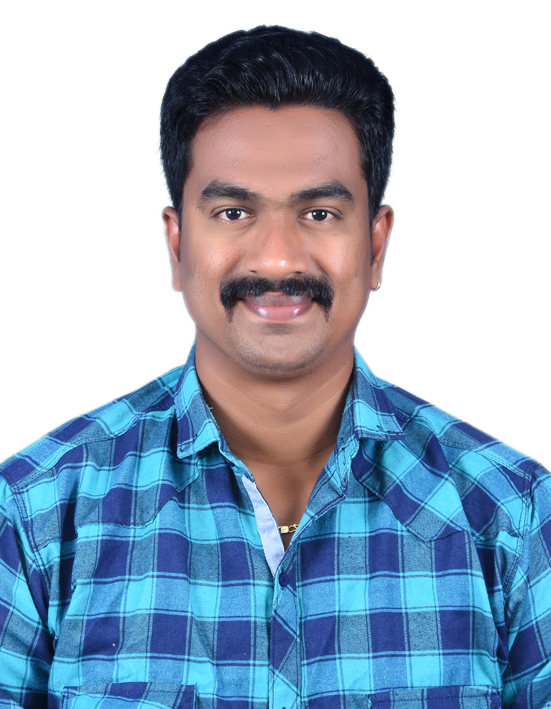
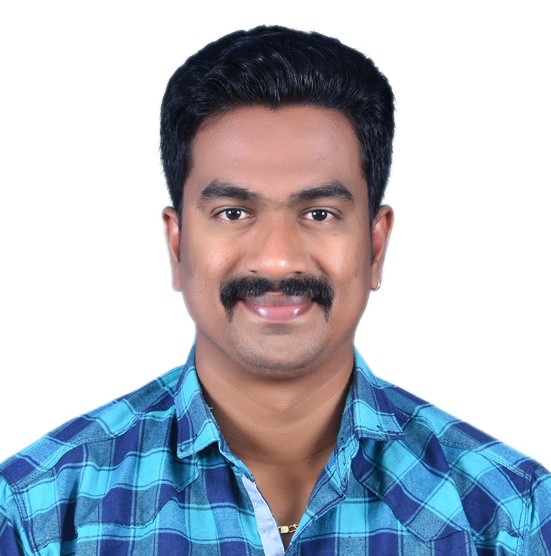
members added

diff --git a/client/src/pages/About.tsx b/client/src/pages/About.tsx
@@ -7,14 +7,6 @@ import {
   Target, Eye, Users, GraduationCap, Briefcase, 
   Heart, TrendingUp, Award, CheckCircle, Lightbulb 
 } from 'lucide-react';
-import founderImage from '@assets/generated_images/Founder_portrait_placeholder_85e87b14.png';
-import team1 from '@assets/generated_images/Team_member_portrait_1_5e2e77be.png';
-import team2 from '@assets/generated_images/Team_member_portrait_2_dc748e31.png';
-import team3 from '@assets/generated_images/Team_member_portrait_3_30b02296.png';
-import team4 from '@assets/generated_images/Team_member_portrait_4_9bfe30a3.png';
-import team5 from '@assets/generated_images/Team_member_portrait_5_0e834672.png';
-import team6 from '@assets/generated_images/Team_member_portrait_6_92dd8211.png';
-import team7 from '@assets/generated_images/Team_member_portrait_7_360e117d.png';
 
 export default function About() {
   const timeline = [
@@ -36,13 +28,66 @@ export default function About() {
   ];
 
   const teamMembers = [
-    { name: 'Dr. R. Ravivarman', role: 'Managing Trustee', image: founderImage, bio: 'Leading NHRF with vision and dedication' },
-    { name: 'Board Member 1', role: 'Trustee', image: team1, bio: 'Expert in education development' },
-    { name: 'Board Member 2', role: 'Trustee', image: team2, bio: 'Specialist in sports management' },
-    { name: 'Board Member 3', role: 'Trustee', image: team3, bio: 'Employment and HR expert' },
-    { name: 'Board Member 4', role: 'Trustee', image: team4, bio: 'Community development leader' },
-    { name: 'Board Member 5', role: 'Trustee', image: team5, bio: 'Strategic planning specialist' },
-    { name: 'R. Vijayaraghavan', role: 'Core Contributor', image: team6, bio: 'Operations and program management' },
+    { 
+      name: 'Dr. R. Ravivarman', 
+      role: 'Founder & Director', 
+      image: '/members/ravi.jpg', 
+      bio: 'Former IT software techie who holding the Masters & Doctorate in Business Administration having 12+ years of experience in football career and 6+ years of experience in HR management and non-profit industry who visionised to empower students via sports. Managing a trust & football club since 2018.' 
+    },
+    { 
+      name: 'V. Mohandass', 
+      role: 'Trustee', 
+      image: '/members/Mohandass_V%20.jpg', 
+      bio: 'An Mechanical Engineer who having 12+ years of experience in football career - expertised in designing football training modules and programs - Managing the sports wing of NHRF.' 
+    },
+    { 
+      name: 'A.P Tharun', 
+      role: 'Trustee', 
+      image: '/members/tharun.JPG', 
+      bio: 'Graduated and returned from UK - 4+ years experience in sports industry joined in our force to bring a societal change for rural students. Expertised in event management and partnership. Board of Trustee in NHRF.' 
+    },
+    { 
+      name: 'S. Maheshwaran', 
+      role: 'Trustee', 
+      image: '/members/mageshwaran.jpg', 
+      bio: 'Information Technology & MBA graduate and the former employee of Amazon in HR Domain - who is passionate in football game joined in our NHRF team to develop rural sports. Board of Trustee in NHRF.' 
+    },
+    { 
+      name: 'M. Subramani', 
+      role: 'Trustee', 
+      image: '/members/subramani.jpg', 
+      bio: 'MBA Graduate - Earlier in part of HCL - expertised in accounts and finance management - handling the whole accounts related operation of NHRF. Board of Trustee in NHRF.' 
+    },
+    { 
+      name: 'K. Manikandan', 
+      role: 'Trustee', 
+      image: '/members/Manikandan.jpg', 
+      bio: 'Former employee at Sony having 5+ years of experience in Training & Development Domain who is passionate in Fitness Training - leading and managing the internal operations of NHRF.' 
+    },
+    { 
+      name: 'V Sivasubramanian', 
+      role: 'Team Member', 
+      image: '/members/sivasubramanian.jpg', 
+      bio: 'Mechanical engineer as well as a Marine Engineer, Result Oriented With over 10 years of experience in training for competitive exams, career counselling, soft skills development as well as Placements, I lead teams to deliver impactful educational and career-focused programs.' 
+    },
+    { 
+      name: 'R. Vijayaraghavan', 
+      role: 'Team Lead', 
+      image: '/members/r.vijayaraghavan.jpg', 
+      bio: 'Team Lead at Amazon, having 5+ years of experience and expertization in team handling, event management, hardware administration.' 
+    },
+    { 
+      name: 'Sunny Dev', 
+      role: 'Trustee', 
+      image: '/members/sunnny.jpg', 
+      bio: 'Trustee in NHRF.' 
+    },
+    { 
+      name: 'Vijayaragavan', 
+      role: 'Trustee', 
+      image: '/members/vijayaraghavan.jpg', 
+      bio: 'Trustee in NHRF.' 
+    },
   ];
 
   return (
@@ -221,7 +266,7 @@ export default function About() {
               <CardContent className="p-8 md:p-12">
                 <div className="flex flex-col md:flex-row gap-8 items-center">
                   <Avatar className="h-32 w-32 md:h-40 md:w-40 flex-shrink-0">
-                    <AvatarImage src={founderImage} alt="Founder" />
+                    <AvatarImage src="/members/ravi.jpg" alt="Founder" />
                     <AvatarFallback>RR</AvatarFallback>
                   </Avatar>
                   <div className="text-center md:text-left">
@@ -246,21 +291,21 @@ export default function About() {
         <section className="py-16 md:py-24 bg-muted/30">
           <div className="container mx-auto px-4 sm:px-6 lg:px-8">
             <SectionHeader
-            title="Our Leadership"
+            title="List of Members"
             subtitle="Dedicated professionals driving positive change"
             centered
           />
           <div className="grid grid-cols-1 sm:grid-cols-2 lg:grid-cols-3 gap-8 mt-12">
             {teamMembers.map((member, index) => (
-              <Card key={index} className="text-center hover-elevate transition-all duration-300 border-card-border">
-                <CardContent className="p-6">
-                  <Avatar className="h-24 w-24 mx-auto mb-4">
+              <Card key={index} className="text-center hover-elevate transition-all duration-300 border-card-border h-full flex flex-col">
+                <CardContent className="p-6 flex flex-col flex-grow">
+                  <Avatar className="h-32 w-32 mx-auto mb-4">
                     <AvatarImage src={member.image} alt={member.name} />
                     <AvatarFallback>{member.name.split(' ').map(n => n[0]).join('')}</AvatarFallback>
                   </Avatar>
-                  <h3 className="font-semibold text-lg mb-1">{member.name}</h3>
-                  <Badge variant="secondary" className="mb-3">{member.role}</Badge>
-                  <p className="text-sm text-muted-foreground">{member.bio}</p>
+                  <h3 className="font-semibold text-lg mb-2">{member.name}</h3>
+                  <Badge variant="secondary" className="mb-3 w-fit mx-auto">{member.role}</Badge>
+                  <p className="text-sm text-muted-foreground leading-relaxed flex-grow">{member.bio}</p>
                 </CardContent>
               </Card>
             ))}
